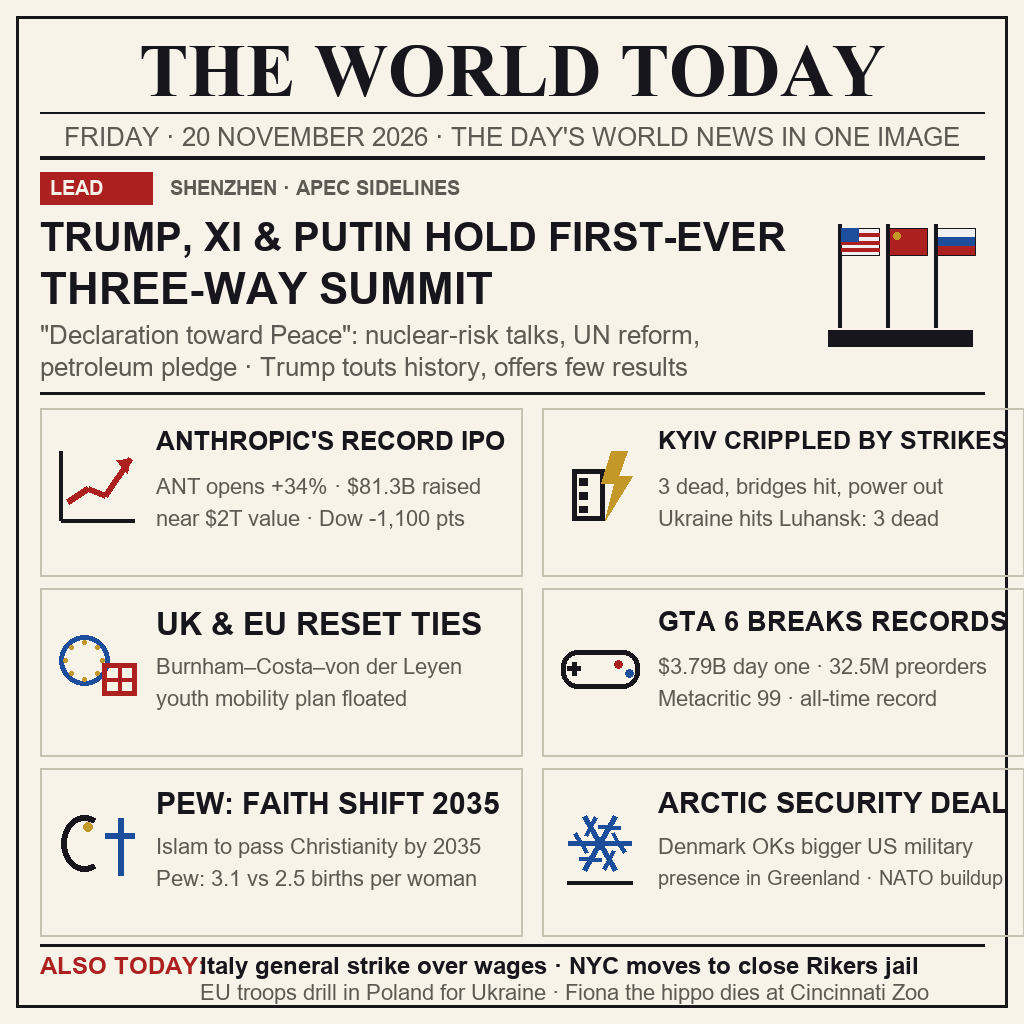
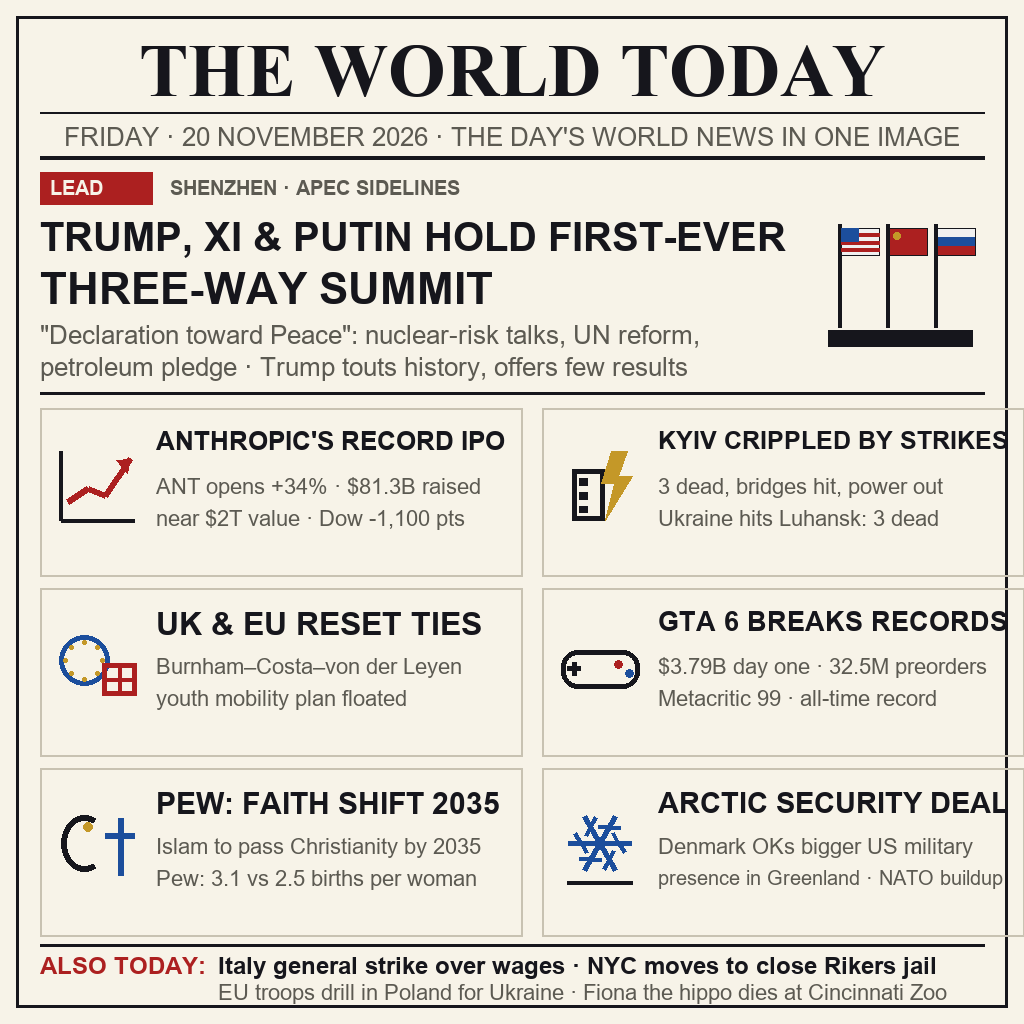
ticker spacing fix; final front-page render

Changed region(s): [[0.1875, 0.9375, 0.9062, 1.0]]

diff --git a/make_image.py b/make_image.py
@@ -162,8 +162,8 @@ rule(944, 3)
 d.text((40, 952), "ALSO TODAY:", font=font("arialbd.ttf", 24), fill=RED)
 t1 = "Italy general strike over wages · NYC moves to close Rikers jail"
 t2 = "EU troops drill in Poland for Ukraine · Fiona the hippo dies at Cincinnati Zoo"
-d.text((200, 952), t1, font=fit(t1, 784, 24, 17), fill=INK)
-d.text((200, 980), t2, font=fit(t2, 784, 22, 16, bold=False), fill=MUTED)
+d.text((218, 952), t1, font=fit(t1, 766, 24, 17), fill=INK)
+d.text((218, 980), t2, font=fit(t2, 766, 22, 16, bold=False), fill=MUTED)
 
 img.save("entry.png", optimize=True)
 print("entry.png written:", os.path.getsize("entry.png"), "bytes", img.size)
